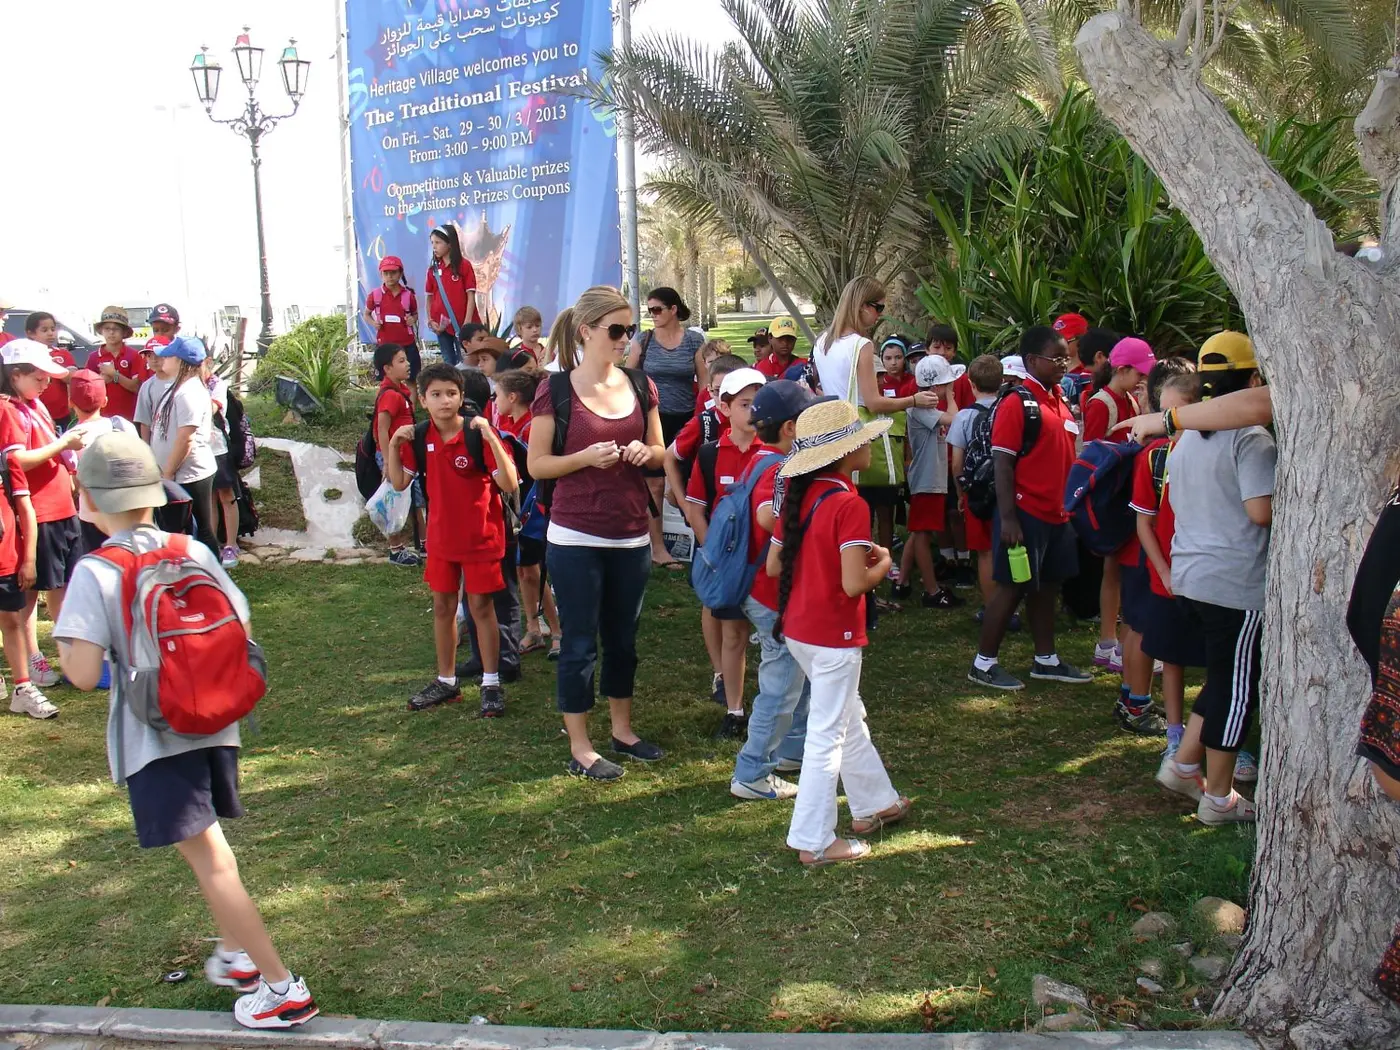
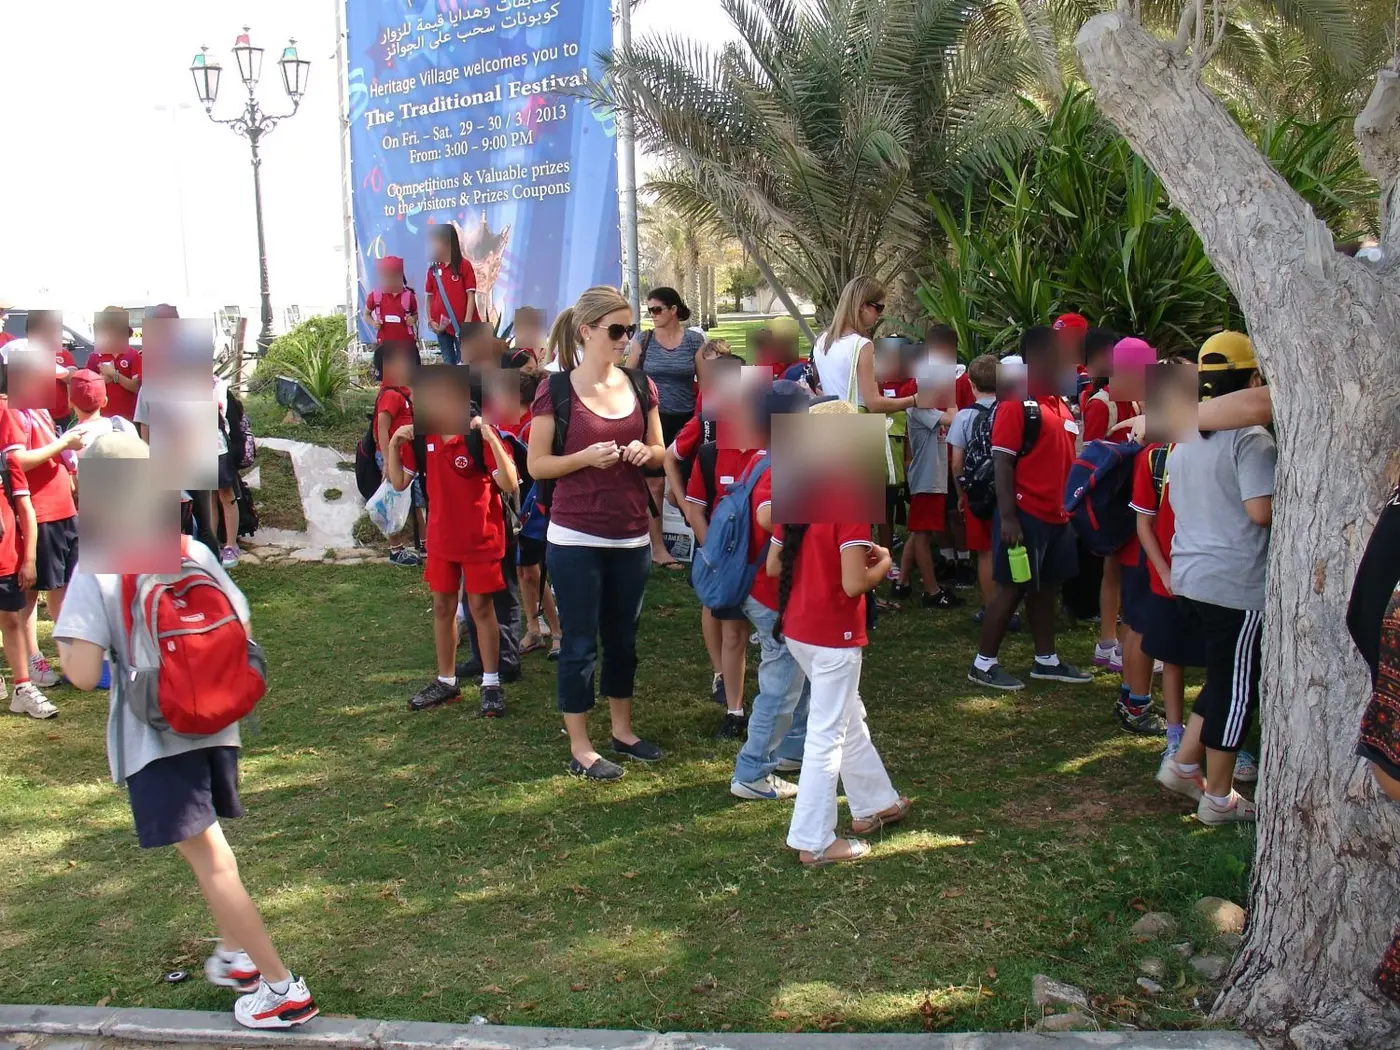
Story Mile: World Storytelling Day photos with children's faces blurred
Claude-Session: https://claude.ai/code/session_01BaT6a6VR8wXUtNSRAbm432

diff --git a/site/work/story-mile/index.html b/site/work/story-mile/index.html
@@ -49,7 +49,7 @@
       <nav class="cs-toc" aria-label="On this page"><p class="label">On this page</p><ol><li><a href="#s1">The project</a></li><li><a href="#s2">On the Corniche</a></li><li><a href="#s3">The outcome</a></li></ol></nav>
       <div>
       <section class="cs-section" id="s1"><h2><span class="n">01</span>The project</h2><p>I co-founded the Al Kharareef storytelling club at Zayed University in 2010 and was a faculty supervisor.</p><p>In 2013, I invited the world-famous master storyteller Abdul Aziz Al Musallam, head of the Sharjah Institute for Heritage, to Zayed University. He helped participating faculty &amp; students craft their stories the way they were meant to be told.</p><p>I co-created the Story Mile Project with Mubadala, the Sharjah Institute for Heritage and the Abu Dhabi Music &amp; Arts Festival. Forty stories were initially exhibited as part of the festival in 2013. Then they became a permanent exhibition at Khalifa Park and <cite>The Story Mile</cite> book was published in 2014.</p><figure class="photo banner"><img src="/media/story-mile/al-kharareef.webp" alt="Al Kharareef Storytelling Club banner: a storyteller with a falcon and children around a campfire" loading="lazy" width="1000" height="250"><figcaption>The banner from the Al Kharareef Storytelling Club website.</figcaption></figure><figure class="cover"><img src="/media/story-mile/story-illustration.webp" alt="Story illustration: a girl in a yellow dress with red dots beside an old stone archway" loading="lazy" width="441" height="414"><figcaption>A story illustration from the project.</figcaption></figure></section>
-      <section class="cs-section" id="s2"><h2><span class="n">02</span>On the Corniche</h2><p><cite>The Story Mile: A Journey Through Emirati Oral Traditions</cite> opened on the Abu Dhabi Corniche as part of the 10th Abu Dhabi Festival, 10–29 March 2013. Admission was free.</p><p>Lightboxes along the seafront path showed the stories by Zayed University students and the Al Kharareef Club. Some were passed down through generations. Others were new stories that students adapted or combined.</p><figure class="photo"><img src="/media/story-mile/lightbox.webp" alt="A Story Mile lightbox on the Abu Dhabi Corniche showing the story Killing Men Softly, with people walking along the seafront path" loading="lazy" width="1290" height="860"><figcaption>The Story Mile exhibition on the Abu Dhabi Corniche, March 2013. These stories later became the book <cite>The Story Mile</cite>. Photo: <cite>The National</cite>.</figcaption></figure><figure class="cover flyer"><img src="/media/story-mile/e-flyer.webp" alt="Abu Dhabi Festival e-flyer for The Story Mile on Abu Dhabi Corniche, 10 to 29 March 2013, showing characters from Emirati folktales on the Corniche" loading="lazy" width="1000" height="1419"><figcaption>The Abu Dhabi Festival e-flyer for The Story Mile, 2013.</figcaption></figure><h3 class="subhead">World Storytelling Day</h3><p>The Al Kharareef Club also took part in a number of events, including the World Storytelling Day event in Abu Dhabi on 20 March 2013. Club members told stories to visiting schoolchildren at Abu Dhabi Heritage Village.</p><div class="gallery"><a class="shot" href="/media/story-mile/wsd-tent.webp" target="_blank" rel="noopener"><img src="/media/story-mile/wsd-tent.webp" alt="Club members telling stories to schoolchildren in a traditional tent." loading="lazy"><span>Club members telling stories to schoolchildren in a traditional tent.</span></a><a class="shot" href="/media/story-mile/wsd-majlis.webp" target="_blank" rel="noopener"><img src="/media/story-mile/wsd-majlis.webp" alt="Children gather in a majlis for food and stories." loading="lazy"><span>Children gather in a majlis for food and stories.</span></a><a class="shot" href="/media/story-mile/wsd-arrival.webp" target="_blank" rel="noopener"><img src="/media/story-mile/wsd-arrival.webp" alt="School groups arrive at Abu Dhabi Heritage Village." loading="lazy"><span>School groups arrive at Abu Dhabi Heritage Village.</span></a><a class="shot" href="/media/story-mile/wsd-falcon.webp" target="_blank" rel="noopener"><img src="/media/story-mile/wsd-falcon.webp" alt="A falconry demonstration during the day." loading="lazy"><span>A falconry demonstration during the day.</span></a></div></section>
+      <section class="cs-section" id="s2"><h2><span class="n">02</span>On the Corniche</h2><p><cite>The Story Mile: A Journey Through Emirati Oral Traditions</cite> opened on the Abu Dhabi Corniche as part of the 10th Abu Dhabi Festival, 10–29 March 2013. Admission was free.</p><p>Lightboxes along the seafront path showed the stories by Zayed University students and the Al Kharareef Club. Some were passed down through generations. Others were new stories that students adapted or combined.</p><figure class="photo"><img src="/media/story-mile/lightbox.webp" alt="A Story Mile lightbox on the Abu Dhabi Corniche showing the story Killing Men Softly, with people walking along the seafront path" loading="lazy" width="1290" height="860"><figcaption>The Story Mile exhibition on the Abu Dhabi Corniche, March 2013. These stories later became the book <cite>The Story Mile</cite>. Photo: <cite>The National</cite>.</figcaption></figure><figure class="cover flyer"><img src="/media/story-mile/e-flyer.webp" alt="Abu Dhabi Festival e-flyer for The Story Mile on Abu Dhabi Corniche, 10 to 29 March 2013, showing characters from Emirati folktales on the Corniche" loading="lazy" width="1000" height="1419"><figcaption>The Abu Dhabi Festival e-flyer for The Story Mile, 2013.</figcaption></figure><h3 class="subhead">World Storytelling Day</h3><p>The Al Kharareef Club also took part in a number of events, including the World Storytelling Day event in Abu Dhabi on 20 March 2013. Club members told stories to visiting schoolchildren at Abu Dhabi Heritage Village.</p Children&rsquo;s faces are blurred for their privacy.</p><div class="gallery"><a class="shot" href="/media/story-mile/wsd-tent.webp" target="_blank" rel="noopener"><img src="/media/story-mile/wsd-tent.webp" alt="Club members telling stories to schoolchildren in a traditional tent." loading="lazy"><span>Club members telling stories to schoolchildren in a traditional tent.</span></a><a class="shot" href="/media/story-mile/wsd-majlis.webp" target="_blank" rel="noopener"><img src="/media/story-mile/wsd-majlis.webp" alt="Children gather in a majlis for food and stories." loading="lazy"><span>Children gather in a majlis for food and stories.</span></a><a class="shot" href="/media/story-mile/wsd-arrival.webp" target="_blank" rel="noopener"><img src="/media/story-mile/wsd-arrival.webp" alt="School groups arrive at Abu Dhabi Heritage Village." loading="lazy"><span>School groups arrive at Abu Dhabi Heritage Village.</span></a><a class="shot" href="/media/story-mile/wsd-falcon.webp" target="_blank" rel="noopener"><img src="/media/story-mile/wsd-falcon.webp" alt="A falconry demonstration during the day." loading="lazy"><span>A falconry demonstration during the day.</span></a></div></section>
       <section class="cs-section" id="s3"><h2><span class="n">03</span>The outcome</h2><ul class="points"><li>300 student authors took part.</li><li>A public exhibition on the Abu Dhabi Corniche.</li><li>A permanent installation at Khalifa Park.</li><li>The book <cite>The Story Mile</cite> (ISBN 978-9948-20-117-5), which I edited.</li></ul></section>
         
       </div>

diff --git a/tools/content.py b/tools/content.py
@@ -279,7 +279,7 @@ dict(
       '<figure class="photo"><img src="/media/story-mile/lightbox.webp" alt="A Story Mile lightbox on the Abu Dhabi Corniche showing the story Killing Men Softly, with people walking along the seafront path" loading="lazy" width="1290" height="860"><figcaption>The Story Mile exhibition on the Abu Dhabi Corniche, March 2013. These stories later became the book <cite>The Story Mile</cite>. Photo: <cite>The National</cite>.</figcaption></figure>',
       '<figure class="cover flyer"><img src="/media/story-mile/e-flyer.webp" alt="Abu Dhabi Festival e-flyer for The Story Mile on Abu Dhabi Corniche, 10 to 29 March 2013, showing characters from Emirati folktales on the Corniche" loading="lazy" width="1000" height="1419"><figcaption>The Abu Dhabi Festival e-flyer for The Story Mile, 2013.</figcaption></figure>',
       '<h3 class="subhead">World Storytelling Day</h3>',
-      "<p>The Al Kharareef Club also took part in a number of events, including the World Storytelling Day event in Abu Dhabi on 20 March 2013. Club members told stories to visiting schoolchildren at Abu Dhabi Heritage Village.</p>",
+      "<p>The Al Kharareef Club also took part in a number of events, including the World Storytelling Day event in Abu Dhabi on 20 March 2013. Club members told stories to visiting schoolchildren at Abu Dhabi Heritage Village.</p Children&rsquo;s faces are blurred for their privacy.</p>",
       "@gallery:storytelling-day",
     ]),
     ("The outcome", [
